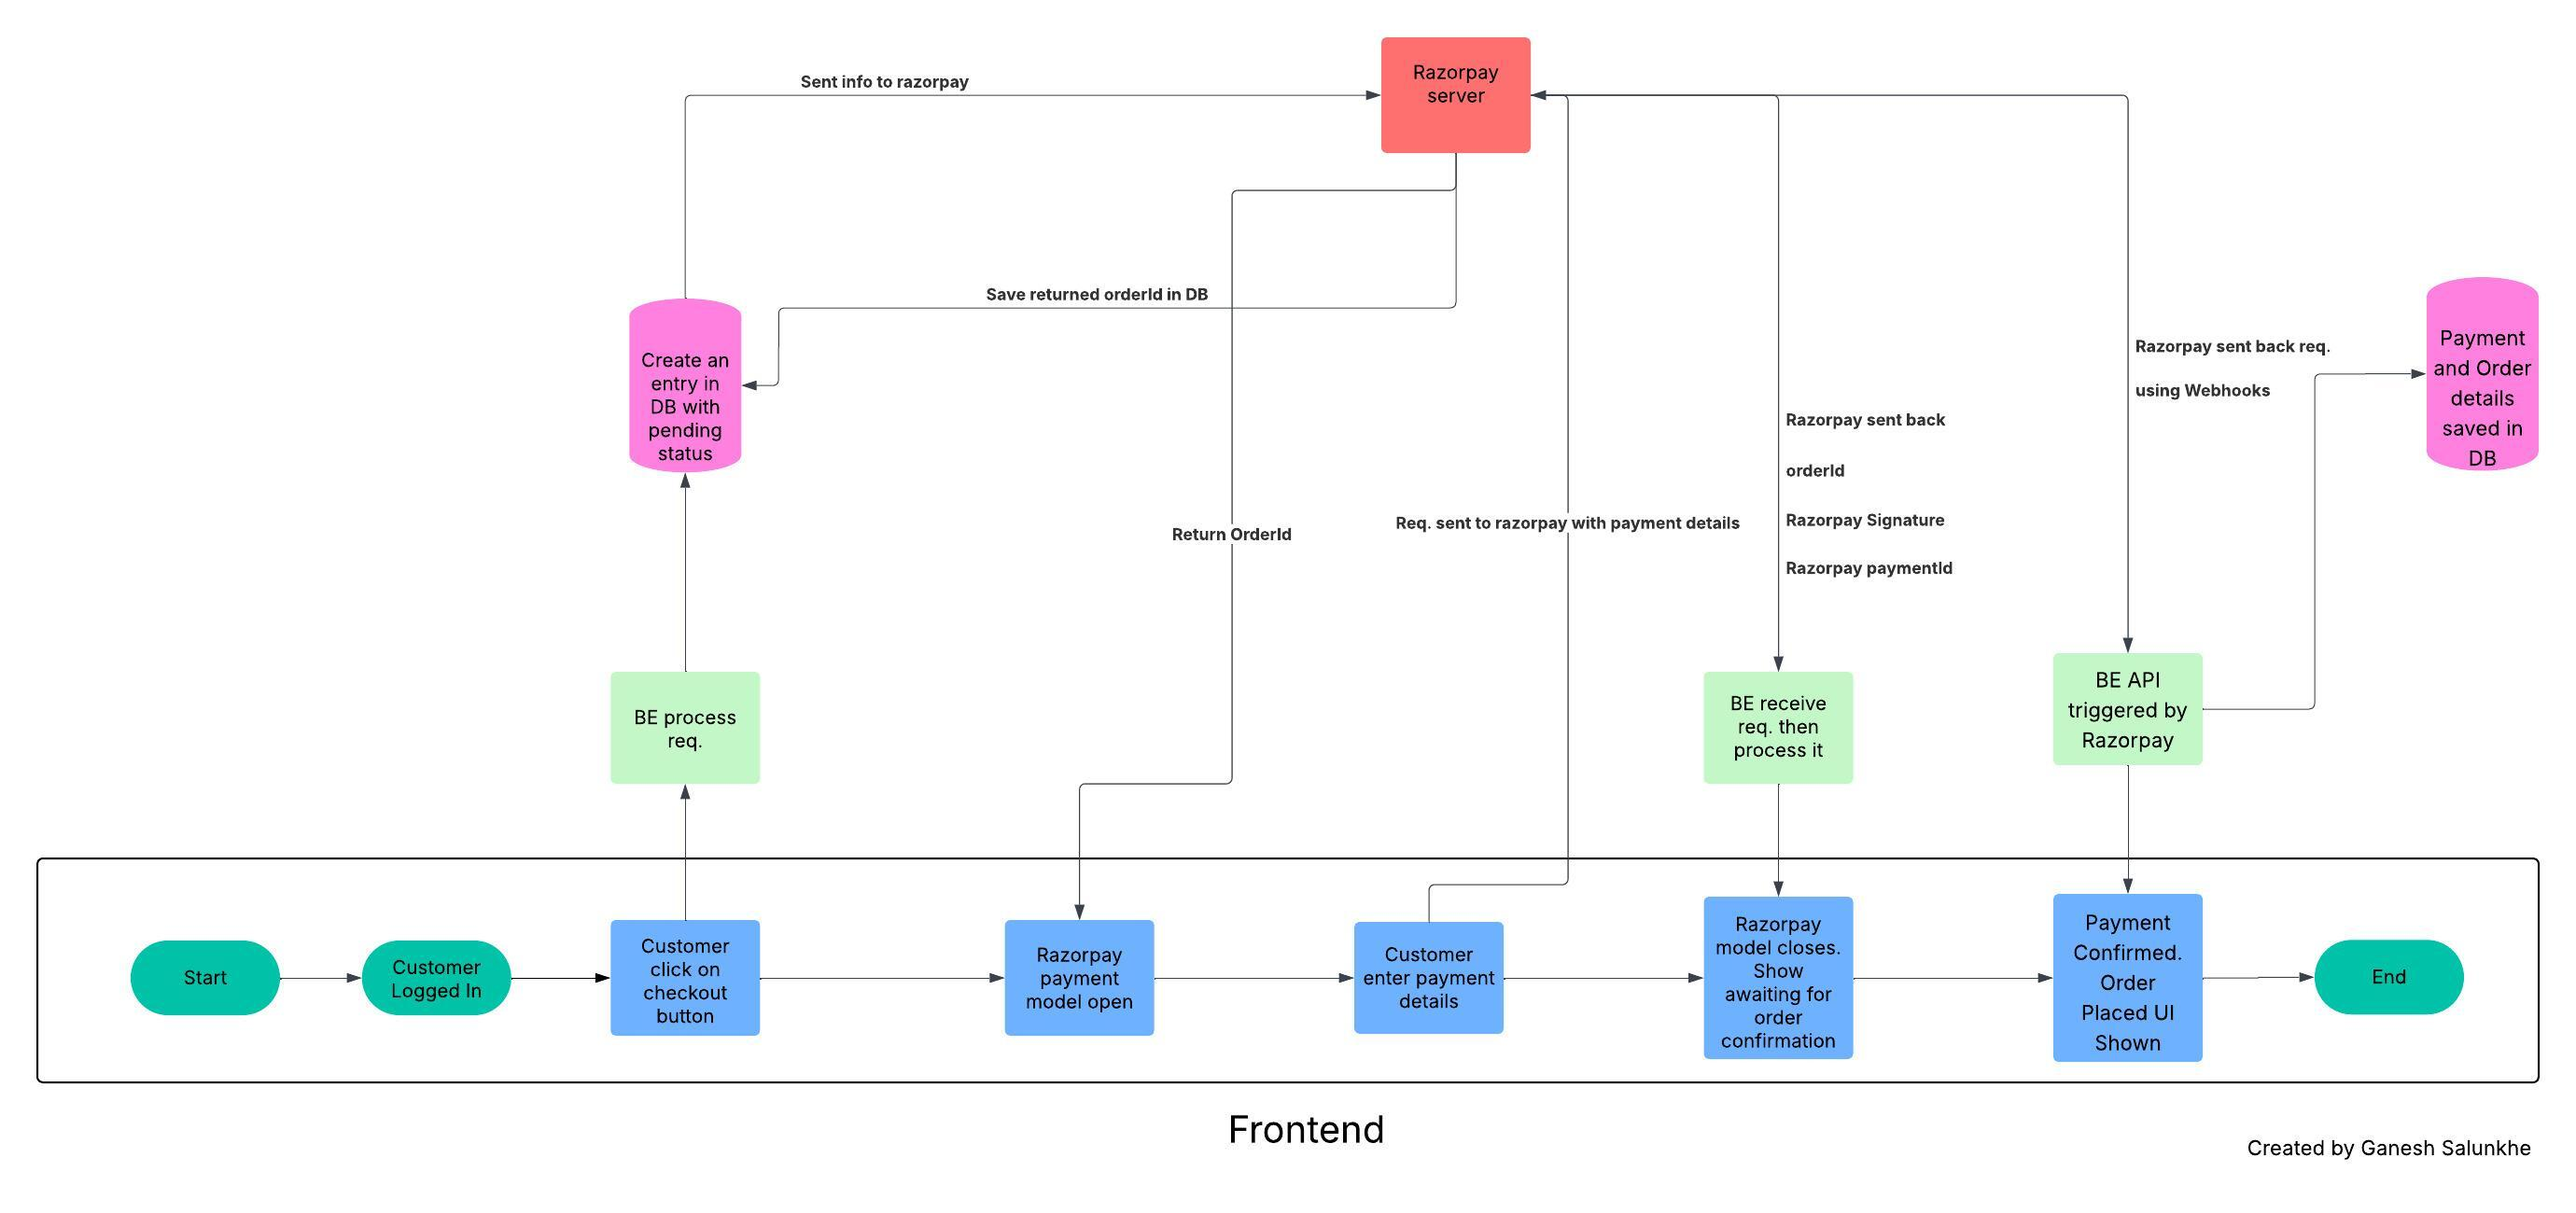
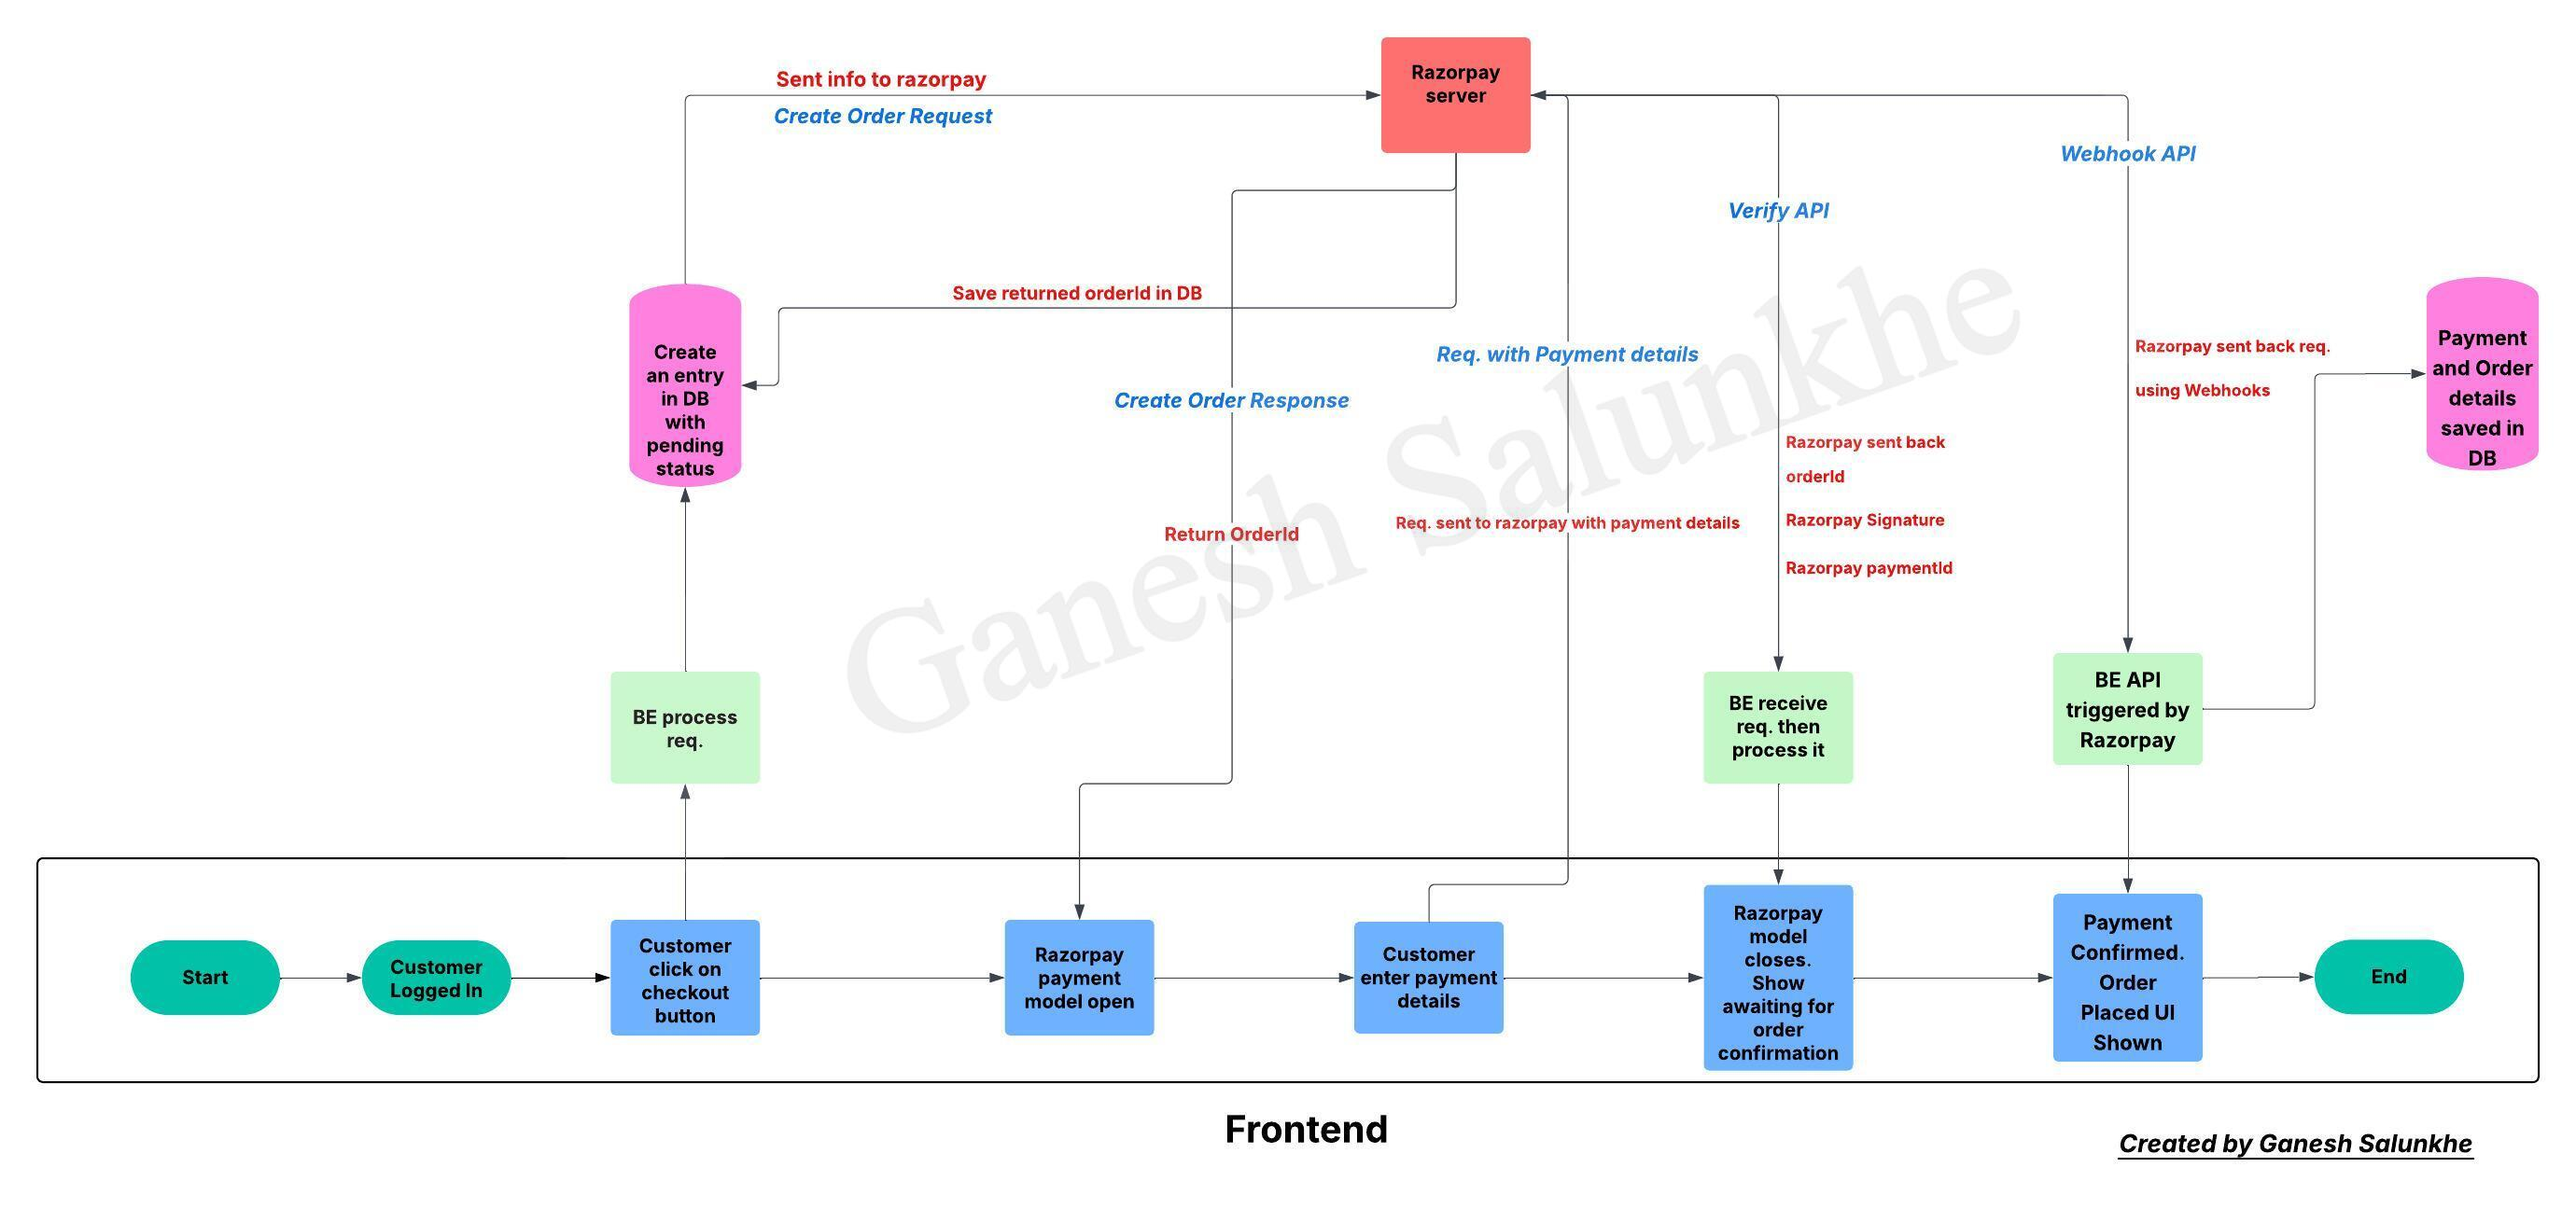
payment architecture modified and some minor code change

diff --git a/Frontend(customer)/src/Components/PaymentSuccess.jsx b/Frontend(customer)/src/Components/PaymentSuccess.jsx
@@ -38,7 +38,7 @@ const PaymentSuccess = () => {
             </div>
 
             <h1 className="text-4xl md:text-5xl font-bold text-white mb-4">
-              Payment Confirmed!
+              Order Confirmed!
             </h1>
             <p className="text-xl text-green-100 font-medium max-w-2xl mx-auto">
               Thank you for your purchase. Your payment has been successfully

diff --git a/Frontend(customer)/src/Components/Cart.jsx b/Frontend(customer)/src/Components/Cart.jsx
@@ -144,6 +144,11 @@ function Cart() {
         },
       };
 
+      if (!window.Razorpay) {
+        toast.error("There is error while opening payment gateway. Please refresh and try again!!");
+        return;
+      }
+
       const rzp = new window.Razorpay(options);
 
       rzp.on("payment.failed", (response) => {
